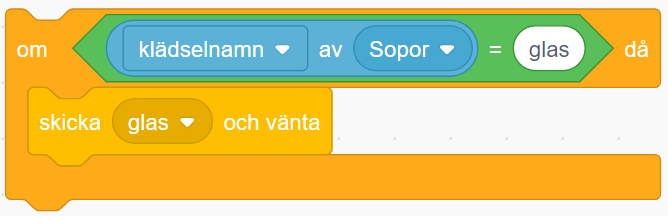
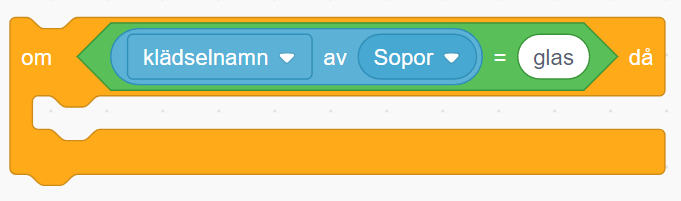
Updaterade text och la till fler bilder

diff --git a/Robot_sopsorterare/sopsorterare.md b/Robot_sopsorterare/sopsorterare.md
@@ -85,11 +85,18 @@ Jag har valt att rita så jag ritar enkla små lådor som ser ut såhär:
 
 ![alt text](https://github.com/Kodcentrum/Scratchuppgifter-v3/blob/feature_sopsorterare/Robot_sopsorterare/KompostSprajt.PNG)
 
-Vi ska nu koda dessa så att de bara tar emot den typ av sopor som vi vill ska hamna där. Vi börjar med att dra ut ett start block med den gröna flaggan. Under detta placerar vi ett för alltid block. Under detta sätter vi ett om-block. I detta sätter vi sedan ett jämförelseblock där vi om vi rör vid vår skräpsprajt. 
+Vi ska nu koda dessa så att de bara tar emot den typ av sopor som vi vill ska hamna där. Vi börjar med att dra ut ett start block med den gröna flaggan. Under detta placerar vi ett för alltid block. Under detta sätter vi ett om-block. I detta sätter vi sedan ett rör vid block där vi väljer vår skräpsprajt. 
 
 ![alt text](https://github.com/Kodcentrum/Scratchuppgifter-v3/blob/feature_sopsorterare/Robot_sopsorterare/sopkarlskod1.PNG)
 
-Om vi gör det måste vi kolla så att det är rätt soptyp. Vi sätter in ytterligare ett om-annars-block och i det blocket sätter vi sedan ett = jämförelesblock där vi på första sidan sätter klädselnamn av Sopor och på andra sidan skriver namnet på soptypen som ska slängas här i. Slutligen sätter vi också ett skicka "omstart" block innuti vårt om block. 
+Om vi gör det måste vi kolla så att det är rätt soptyp. Vi sätter in ytterligare ett om-annars-block och i det blocket sätter vi sedan ett = jämförelesblock i vilket vi sätter vi [Om x av y] blocket i vårt jämförelseblock och väljer "Klädselnamn" och vår sopsprajt.  
+
+
+På andra sidan skriver namnet på soptypen som ska slängas här i. 
+
+Det är viktigt att vi skriver det på exakt det sättet, alltså utan stor bokstav eller utan felstavningar. Roboten är väldigt smart, men den gör också bara exakt som du säger åt den att göra, om vi skriver till exempel "Glas" kommer den att jämföra detta med soptypen "glas", och även om de betyder samma sak så är de ju olika. Roboten kommer därför inte veta vad den ska göra. 
+
+Slutligen sätter vi också ett skicka "omstart" block innuti vårt om block. 
  
 ![alt text](https://github.com/Kodcentrum/Scratchuppgifter-v3/blob/feature_sopsorterare/Robot_sopsorterare/sopkarlskod2.PNG)
 
@@ -133,24 +140,27 @@ Sådär! Nu kan vi styra roboten! Enkelt va?
 # Fånga Sopor
 Vi måste också programera roboten så den tar hand om soporna som faller ner på rätt sätt så att allt tas om hand och kan bli till nya saker. 
 
-För att göra detta måste roboten känna igen vad för typ av sopor det är som den stöter på. 
+För att göra detta måste roboten känna igen vad för typ av sopor det är som den stöter på. Vi kommer att koda detta på ett sätt som påminner mycket om det vi kodade till sopkärlen.
 
 Vi börjar med att lägga till en [för alltid loop] under [startblocket] med den gröna flaggan. 
 
 ![alt text](https://github.com/Kodcentrum/Scratchuppgifter-v3/blob/feature_sopsorterare/Robot_sopsorterare/robotNarKlickarStart.PNG)
 
-Vi börjar med om skräptypen är glas. Vi skapar fört ett jämförelseblock som vi därefter kan sätta in i ett om-block. På den ena sidan sätter vi som tidigare klädselnamn av Sopsprajten och på andra sidan skriver vi glas. 
+Sen kan vi börja med om skräptypen är glas. Vi skapar fört ett jämförelseblock som vi därefter kan sätta in i ett om-block. På den ena sidan sätter vi som tidigare klädselnamn av Sopsprajten och på andra sidan skriver vi glas. 
 
 ![alt text](https://github.com/Kodcentrum/Scratchuppgifter-v3/blob/feature_sopsorterare/Robot_sopsorterare/omRorVidLogik.PNG)
-
-Det är viktigt att vi skriver det på exakt det sättet, alltså utan stor bokstav eller utan felstavningar. Roboten är väldigt smart, men den gör också bara exakt som du säger åt den att göra, om vi skriver till exempel "Glas" kommer den att jämföra detta med soptypen "glas", och även om de betyder samma sak så är de ju olika. Roboten kommer därför inte veta vad den ska göra. 
-
-Eftersom vi både har sopsorterna glas och kompost behöver vi göra samma sak för kompost. 
-Ta ett till om block och lägg i detta ett jämförelseblock med = som jämförelse. På den ena sidan sätter vi som tidigare klädselnamn av Sopsprajten och på andra sidan skriver vi kompost. 
 
 När du är klar borde det se ut något sådanthär: 
 
 ![alt text](https://github.com/Kodcentrum/Scratchuppgifter-v3/blob/feature_sopsorterare/Robot_sopsorterare/omRorVidSoporKlar.PNG)
+
+Kom igåg att det är viktigt att det står exakt så som du skrev namnet på din klädsel på andra sidan!
+
+För vår andra soptyp kan vi kopiera blocken vi skapade i föregående steg men glöm inte att byta namn på din soptyp! 
+
+När du är klar ser det nog ut något sådant här:
+
+
 
 # Sortera!
 Nu ska vi i varje litet om-block vi skapat för de olika soptyperna använda oss av medelanden för att få sakerna att hamna rätt. I blocket för glas ska vi skicka meddelandet glas. 
